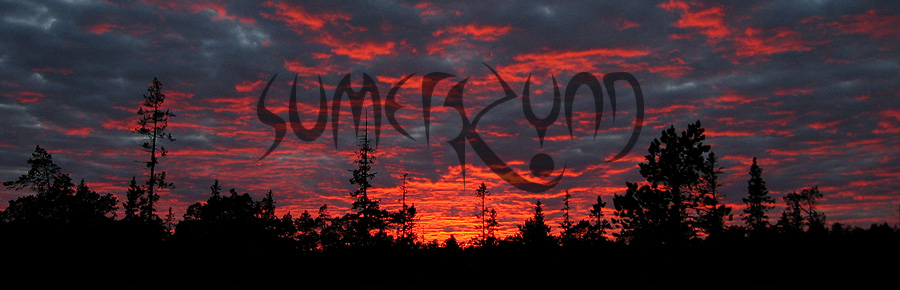
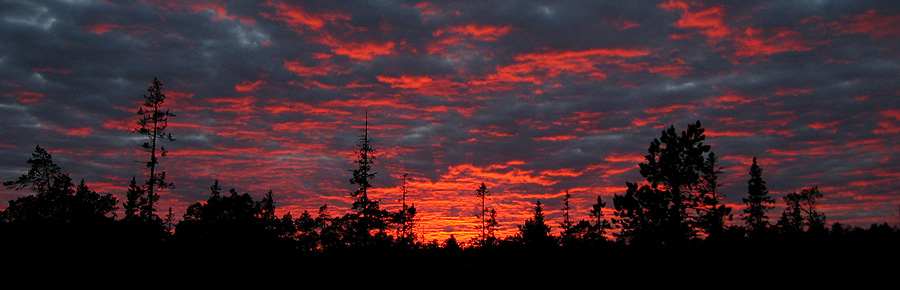
Updates

Changed region(s): [[0.28, 0.2483, 0.7156, 0.6828]]

diff --git a/css/style.min.css b/css/style.min.css
@@ -1,2 +1,2 @@
 /*! normalize.css v3.0.2 | MIT License | git.io/normalize */
-html{font-family:sans-serif;-ms-text-size-adjust:100%;-webkit-text-size-adjust:100%;box-sizing:border-box}article,aside,details,figcaption,figure,footer,header,hgroup,main,menu,nav,section,summary{display:block}audio,canvas,progress,video{display:inline-block;vertical-align:baseline}audio:not([controls]){display:none;height:0}[hidden],template{display:none}a{background-color:transparent}a:active,a:hover{outline:0}abbr[title]{border-bottom:1px dotted}b,strong{font-weight:700}dfn{font-style:italic}h1{font-size:2em;margin:.67em 0}mark{background:#ff0;color:#000}small{font-size:80%}sub,sup{font-size:75%;line-height:0;position:relative;vertical-align:baseline}sup{top:-.5em}sub{bottom:-.25em}img{border:0;max-width:100%;height:auto}svg:not(:root){overflow:hidden}figure{margin:1em 40px}hr{-moz-box-sizing:content-box;box-sizing:content-box;height:0}pre{overflow:auto}code,kbd,pre,samp{font-family:monospace,monospace;font-size:1em}button,input,optgroup,select,textarea{color:inherit;font:inherit;margin:0}button{overflow:visible}button,select{text-transform:none}button,html input[type=button],input[type=reset],input[type=submit]{-webkit-appearance:button;cursor:pointer}button[disabled],html input[disabled]{cursor:default}button::-moz-focus-inner,input::-moz-focus-inner{border:0;padding:0}input{line-height:normal}input[type=checkbox],input[type=radio]{box-sizing:border-box;padding:0}input[type=number]::-webkit-inner-spin-button,input[type=number]::-webkit-outer-spin-button{height:auto}input[type=search]{-webkit-appearance:textfield;-moz-box-sizing:content-box;-webkit-box-sizing:content-box;box-sizing:content-box}input[type=search]::-webkit-search-cancel-button,input[type=search]::-webkit-search-decoration{-webkit-appearance:none}fieldset{border:1px solid silver;margin:0 2px;padding:.35em .625em .75em}legend{border:0}textarea{overflow:auto}optgroup{font-weight:700}table{border-collapse:collapse;border-spacing:0}legend,td,th{padding:0}*,::after,::before{box-sizing:inherit}body,html,p{margin:0;padding:0}body{font-size:12px;line-height:18px;font-family:sans-serif;color:#52454a}p{margin:0 0 10px}.container{width:auto;min-width:320px;background-color:#23222a}.page-header{max-width:900px;height:290px;background:url(../img/bg-header.jpg) no-repeat top}.page-header__link{display:block;max-width:900px;height:290px;line-height:0;text-decoration:none}.page-main{display:-webkit-box;display:-ms-flexbox;display:flex;-ms-flex-direction:column;flex-direction:column;flex-wrap:wrap;background:url(../img/bg-main.png) no-repeat top;-webkit-box-direction:normal;-webkit-box-orient:vertical;-ms-flex-wrap:wrap}.page-main__column{padding:0 20px}.page-main__title{margin:30px 0 10px;padding:0;font-weight:400;color:#8d777f}.page-main__img{margin-bottom:20px;box-shadow:0 0 3px 0 #52454a}.page-footer{max-width:900px;min-height:80px;text-align:center;background-color:#000}.page-footer__text{font-weight:700;font-size:11px;line-height:80px;letter-spacing:1px}.page-footer__link{color:#33323a;text-decoration:none}.main-nav--top .main-nav__link:first-letter,.main-nav__link:hover,.page-footer__link:hover{color:#838094}.main-nav{min-height:25px;padding:0 15px}.main-nav--top{background:#545265;border-top:3px double #33323a;border-bottom:3px double #33323a}.main-nav--bottom{background-image:-webkit-linear-gradient(bottom,#000,#23222a);background-image:linear-gradient(to top,#000,#23222a)}.main-nav__items{display:-webkit-box;display:-ms-flexbox;display:flex;flex-wrap:wrap;justify-content:center;margin:0;padding:0;list-style:none;-webkit-box-pack:center;-ms-flex-pack:center;-ms-flex-wrap:wrap}.main-nav__item{position:relative;margin-left:-1px;padding-right:10px;padding-left:10px;font-size:14px;border-right:1px solid #33323a;border-left:1px solid #33323a}.main-nav__item:first-child::after{display:none}.main-nav__item--clone{display:none}.main-nav__link,.main-nav__link--active{display:block;line-height:20px;color:#33323a;text-transform:uppercase;text-decoration:none;letter-spacing:1px}.main-nav__link--active{font-weight:700;color:#838094}@media (min-width:640px){.container{max-width:900px;margin:0 auto}.page-main{-ms-flex-direction:row;flex-direction:row;justify-content:space-between;-webkit-box-direction:normal;-webkit-box-orient:horizontal;-webkit-box-pack:justify;-ms-flex-pack:justify}.page-main__column:nth-child(even){text-align:right}.page-main__column{width:50%}}@media (min-width:900px){body{background:#000 url(../img/bg-body.jpg) no-repeat fixed top}.container{border-right:2px solid #33323a;border-left:2px solid #33323a}.page-footer{text-align:right}.page-footer__text{margin-right:20px}.main-nav__items{flex-wrap:nowrap;justify-content:flex-start;padding-right:10px;overflow:hidden;white-space:nowrap;text-overflow:ellipsis;-webkit-box-pack:start;-ms-flex-pack:start;-ms-flex-wrap:nowrap}.main-nav__item{padding-right:20px;padding-left:0;border:none}.main-nav__item::after{content:"";position:absolute;top:12px;left:-12px;width:3px;height:3px;background-color:#838094}.main-nav__item--clone{display:block}}
+html{font-family:sans-serif;-ms-text-size-adjust:100%;-webkit-text-size-adjust:100%;box-sizing:border-box}article,aside,details,figcaption,figure,footer,header,hgroup,main,menu,nav,section,summary{display:block}audio,canvas,progress,video{display:inline-block;vertical-align:baseline}audio:not([controls]){display:none;height:0}[hidden],template{display:none}a{background-color:transparent}a:active,a:hover{outline:0}abbr[title]{border-bottom:1px dotted}b,strong{font-weight:700}dfn{font-style:italic}h1{font-size:2em;margin:.67em 0}mark{background:#ff0;color:#000}small{font-size:80%}sub,sup{font-size:75%;line-height:0;position:relative;vertical-align:baseline}sup{top:-.5em}sub{bottom:-.25em}img{border:0;max-width:100%;height:auto}svg:not(:root){overflow:hidden}figure{margin:1em 40px}hr{-moz-box-sizing:content-box;box-sizing:content-box;height:0}pre{overflow:auto}code,kbd,pre,samp{font-family:monospace,monospace;font-size:1em}button,input,optgroup,select,textarea{color:inherit;font:inherit;margin:0}button{overflow:visible}button,select{text-transform:none}button,html input[type=button],input[type=reset],input[type=submit]{-webkit-appearance:button;cursor:pointer}button[disabled],html input[disabled]{cursor:default}button::-moz-focus-inner,input::-moz-focus-inner{border:0;padding:0}input{line-height:normal}input[type=checkbox],input[type=radio]{box-sizing:border-box;padding:0}input[type=number]::-webkit-inner-spin-button,input[type=number]::-webkit-outer-spin-button{height:auto}input[type=search]{-webkit-appearance:textfield;-moz-box-sizing:content-box;-webkit-box-sizing:content-box;box-sizing:content-box}input[type=search]::-webkit-search-cancel-button,input[type=search]::-webkit-search-decoration{-webkit-appearance:none}fieldset{border:1px solid silver;margin:0 2px;padding:.35em .625em .75em}legend{border:0}textarea{overflow:auto}optgroup{font-weight:700}table{border-collapse:collapse;border-spacing:0}legend,td,th{padding:0}*,::after,::before{box-sizing:inherit}body,html,p{margin:0;padding:0}body{font-size:12px;line-height:18px;font-family:sans-serif;color:#52454a}p{margin:0 0 10px}.container{width:auto;min-width:320px;background-color:#23222a}.page-header{max-width:900px;height:290px;padding-top:40px;background:url(../img/bg-header.jpg) no-repeat top}.page-header__logo{display:block;width:250px;height:86px;margin:0 auto;line-height:0}.page-main{display:-webkit-box;display:-ms-flexbox;display:flex;-ms-flex-direction:column;flex-direction:column;flex-wrap:wrap;padding-bottom:20px;background:url(../img/bg-main.png) no-repeat top;-webkit-box-direction:normal;-webkit-box-orient:vertical;-ms-flex-wrap:wrap}.page-main__column{padding:0 20px}.page-main__title{margin:30px 0 10px;padding:0;font-weight:400;color:#8d777f}.page-main__img{margin-bottom:20px;box-shadow:0 0 3px 0 #52454a}.page-footer{max-width:900px;min-height:80px;text-align:center;background-color:#000}.page-footer__text{font-weight:700;font-size:11px;line-height:80px;letter-spacing:1px}.page-footer__link{color:#33323a;text-decoration:none}.main-nav--top .main-nav__link:first-letter,.main-nav__link:hover,.page-footer__link:hover{color:#838094}.main-nav{min-height:25px;padding:0 15px}.main-nav--top{background:#545265;border-top:3px double #33323a;border-bottom:3px double #33323a}.main-nav--bottom{background-image:-webkit-linear-gradient(bottom,#000,#23222a);background-image:linear-gradient(to top,#000,#23222a)}.main-nav__items{display:-webkit-box;display:-ms-flexbox;display:flex;flex-wrap:wrap;justify-content:center;margin:0;padding:0;list-style:none;-webkit-box-pack:center;-ms-flex-pack:center;-ms-flex-wrap:wrap}.main-nav__item{position:relative;margin-left:-1px;padding-right:10px;padding-left:10px;font-size:14px;border-right:1px solid #33323a;border-left:1px solid #33323a}.main-nav__item:first-child::after{display:none}.main-nav__item--clone{display:none}.main-nav__link,.main-nav__link--active{display:block;line-height:20px;color:#33323a;text-transform:uppercase;text-decoration:none;letter-spacing:1px}.main-nav__link--active{font-weight:700;color:#838094}@media (min-width:640px){.container{max-width:900px;margin:0 auto}.page-header{padding-top:60px}.page-header__logo{width:390px;height:134px}.page-main{-ms-flex-direction:row;flex-direction:row;justify-content:space-between;-webkit-box-direction:normal;-webkit-box-orient:horizontal;-webkit-box-pack:justify;-ms-flex-pack:justify}.page-main__column:nth-child(even){text-align:right}.page-main__column{width:50%}}@media (min-width:900px){body{background:#000 url(../img/bg-body.jpg) no-repeat fixed top}.container{border-right:2px solid #33323a;border-left:2px solid #33323a}.page-footer{text-align:right}.page-footer__text{margin-right:20px}.main-nav__items{flex-wrap:nowrap;justify-content:flex-start;padding-right:10px;overflow:hidden;white-space:nowrap;text-overflow:ellipsis;-webkit-box-pack:start;-ms-flex-pack:start;-ms-flex-wrap:nowrap}.main-nav__item{padding-right:20px;padding-left:0;border:none}.main-nav__item::after{content:"";position:absolute;top:12px;left:-12px;width:3px;height:3px;background-color:#838094}.main-nav__item--clone{display:block}}

diff --git a/css/style.css b/css/style.css
@@ -463,16 +463,17 @@ p {
 .page-header {
   max-width: 900px;
   height: 290px;
+  padding-top: 40px;
 
   background: url("../img/bg-header.jpg") no-repeat scroll top;
 }
-.page-header__link {
+.page-header__logo {
   display: block;
-  max-width: 900px;
-  height: 290px;
+  width: 250px;
+  height: 86px;
+  margin: 0 auto;
 
   line-height: 0;
-  text-decoration: none;
 }
 .page-main {
   display: -webkit-box;
@@ -481,6 +482,7 @@ p {
   -ms-flex-direction: column;
       flex-direction: column;
       flex-wrap: wrap;
+  padding-bottom: 20px;
 
   background: url("../img/bg-main.png") no-repeat scroll top;
 
@@ -601,6 +603,13 @@ p {
   .container {
     max-width: 900px;
     margin: 0 auto;
+  }
+  .page-header {
+    padding-top: 60px;
+  }
+  .page-header__logo {
+    width: 390px;
+    height: 134px;
   }
   .page-main {
     -ms-flex-direction: row;

diff --git a/index.html b/index.html
@@ -15,7 +15,17 @@
 		<!--                                                              -->
 		<!--++++++++++++++++++++++++++++++++++++++++++++++++++++++++++++++-->
 		<header class="page-header">
-      <a class="page-header__link" href="index.html"></a>
+      <a class="page-header__logo" href="index.html">
+        <picture>
+          <source
+            media="(max-width: 599px)"
+            srcset="img/logo-mobile.png">
+          <source
+            media="(min-width: 600px)"
+            srcset="img/logo-tablet.png">
+          <img src="img/logo-tablet.png" alt="Sumerkyng">
+        </picture>
+      </a>
     </header>
 		<!--++++++++++++++++++++++++++++++++++++++++++++++++++++++++++++++-->
 		<!--                                                              -->
